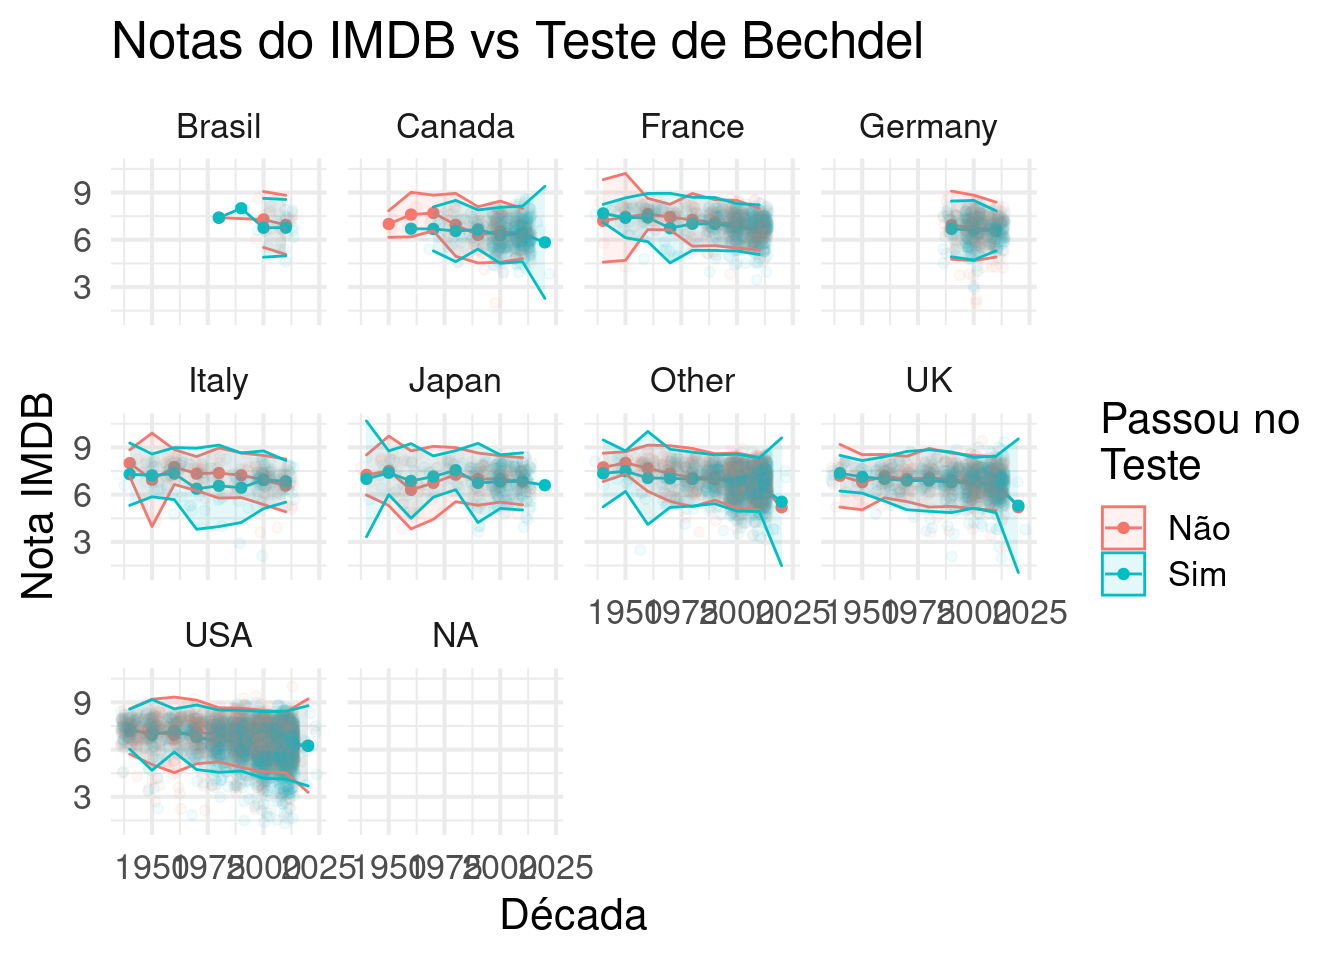
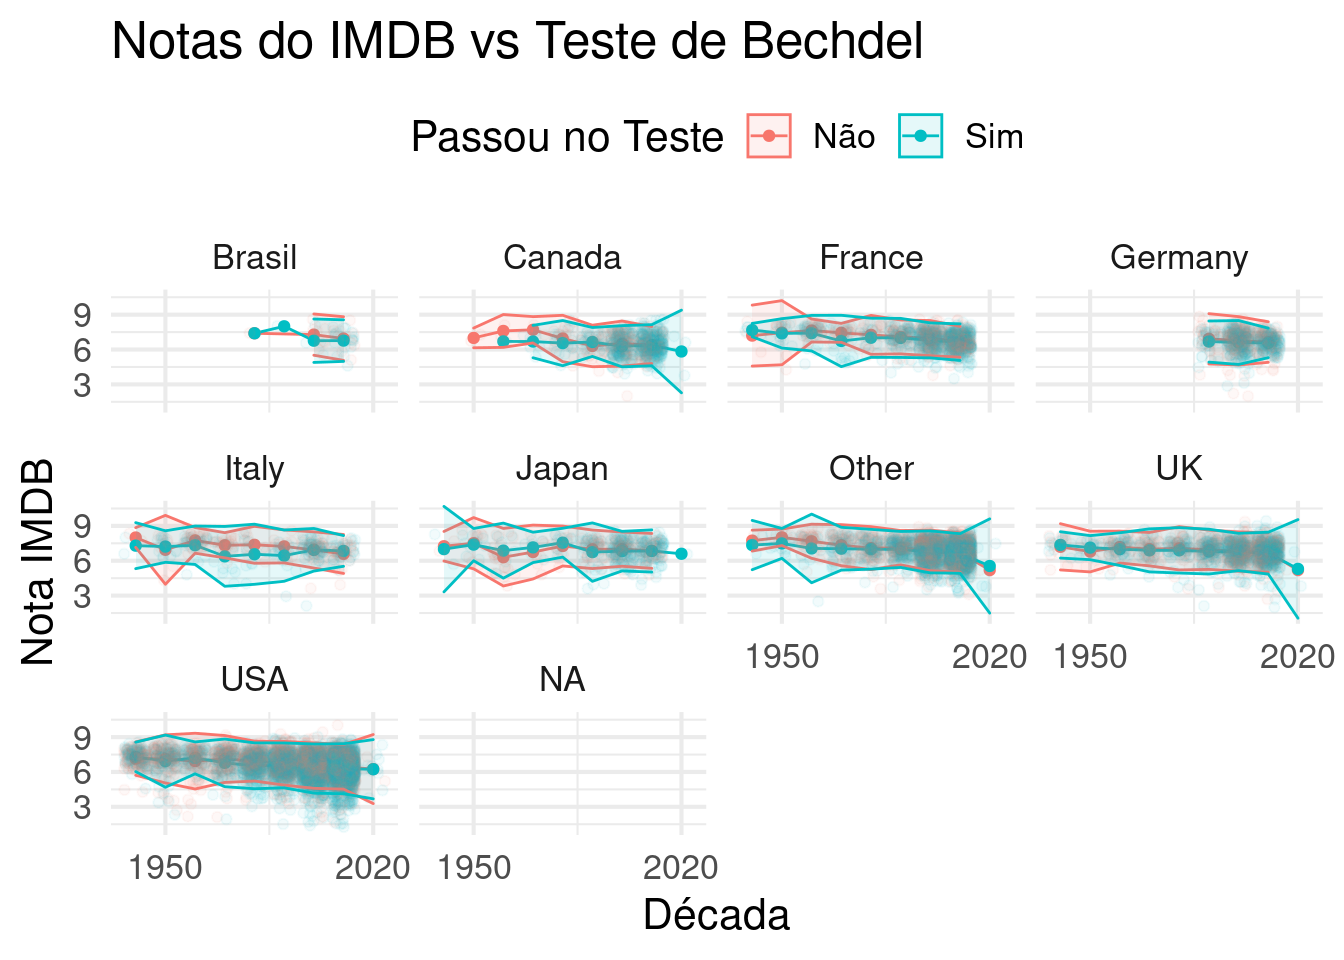
bechdel

diff --git a/content/blog/2020-06-09-bechdel.html b/content/blog/2020-06-09-bechdel.html
@@ -52,7 +52,7 @@
   ) %&gt;%
   ggplot(aes(y = indice_bechdel, x = n)) +
   geom_segment(aes(xend = 0, yend = indice_bechdel)) +
-  geom_point(size = 13) +
+  geom_point(size = 12) +
   geom_text(aes(label = rating_p), color = &quot;white&quot;, fontface = &quot;bold&quot;) +
   labs(x = &quot;contagem&quot;, y = NULL, title = &quot;Filmes por Rating Bechdel&quot;) +
   theme(
@@ -87,7 +87,7 @@ bechdel_por_decada %&gt;%
 <h3>API Key</h3>
 <p>Primeiro eu peguei uma API KEY no site deles e coloquei no meu .Renviron porque daí eu posso usar o <code>Sys.get()</code> pra usá-la sem precisar mostrar pra ninguém.</p>
 <pre class="r"><code>Sys.getenv(&#39;OMDB_APIKEY&#39;)
-# [1] as48732f1d</code></pre>
+# [1] as48732f1d (de mentirinha)</code></pre>
 </div>
 <div id="chamando-a-api" class="section level3">
 <h3>Chamando a API</h3>
@@ -490,7 +490,9 @@ bechdel_nota_por_decada %&gt;%
   geom_jitter(data = bechdel_por_decada_e_pais %&gt;% filter(decada &gt;= 1940), aes(y = imdbRating_num), alpha = 0.05) +
   geom_ribbon(aes(ymin = imdb_inf, ymax = imdb_sup, fill = passou_no_teste), alpha = 0.1) +
   facet_wrap(vars(pais)) +
-  labs(x = &quot;Década&quot;, y = &quot;Nota IMDB&quot;, colour = &quot;Passou no\nTeste&quot;, fill = &quot;Passou no\nTeste&quot;, title = &quot;Notas do IMDB vs Teste de Bechdel&quot;)</code></pre>
+  labs(x = &quot;Década&quot;, y = &quot;Nota IMDB&quot;, colour = &quot;Passou no Teste&quot;, fill = &quot;Passou no Teste&quot;, title = &quot;Notas do IMDB vs Teste de Bechdel&quot;) +
+  scale_x_continuous(breaks = c(1950, 2020)) +
+  theme(legend.position = &quot;top&quot;)</code></pre>
 <p><img src="2020-06-09-bechdel_files/figure-html/unnamed-chunk-16-1.png" width="672" /></p>
 <p>O que você achou das análises? Conte para a gente! É um tema que vale a pena ser discutido por todos.</p>
 </div>
